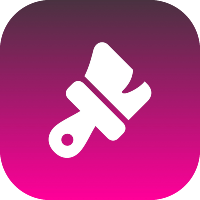
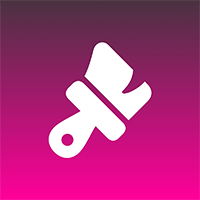
Pwa implementation

diff --git a/src/pages/index.js b/src/pages/index.js
@@ -15,7 +15,7 @@ export default function Index() {
             <div>
                 <div className={styles.yma__header}>
                     <div>
-                        <img src={logo} alt={`${siteConfig.title} Logo`} />
+                        <img src={logo} alt={`${siteConfig.title} Logo`} style={{borderRadius: '1.5rem'}} />
                         <h1 className={styles.yma__heading}>{siteConfig.title}</h1>
                         <p className={styles.yma__description}>Build beautiful websites with small class names</p>
                         <Link className={styles.yma__primary__button} to='/docs/intro'>Read Docs</Link>

diff --git a/docusaurus.config.js b/docusaurus.config.js
@@ -3,7 +3,7 @@ const vortyx = require('./src/themes/vortyx');
 const config = {
   title: 'Yumma CSS',
   tagline: 'The documentation site for Yumma CSS.',
-  favicon: '/img/meta/favicon.ico',
+  favicon: '/img/favicon/favicon.ico',
   url: 'https://yummacss.com',
   baseUrl: '/',
   organizationName: 'yumma-lib',
